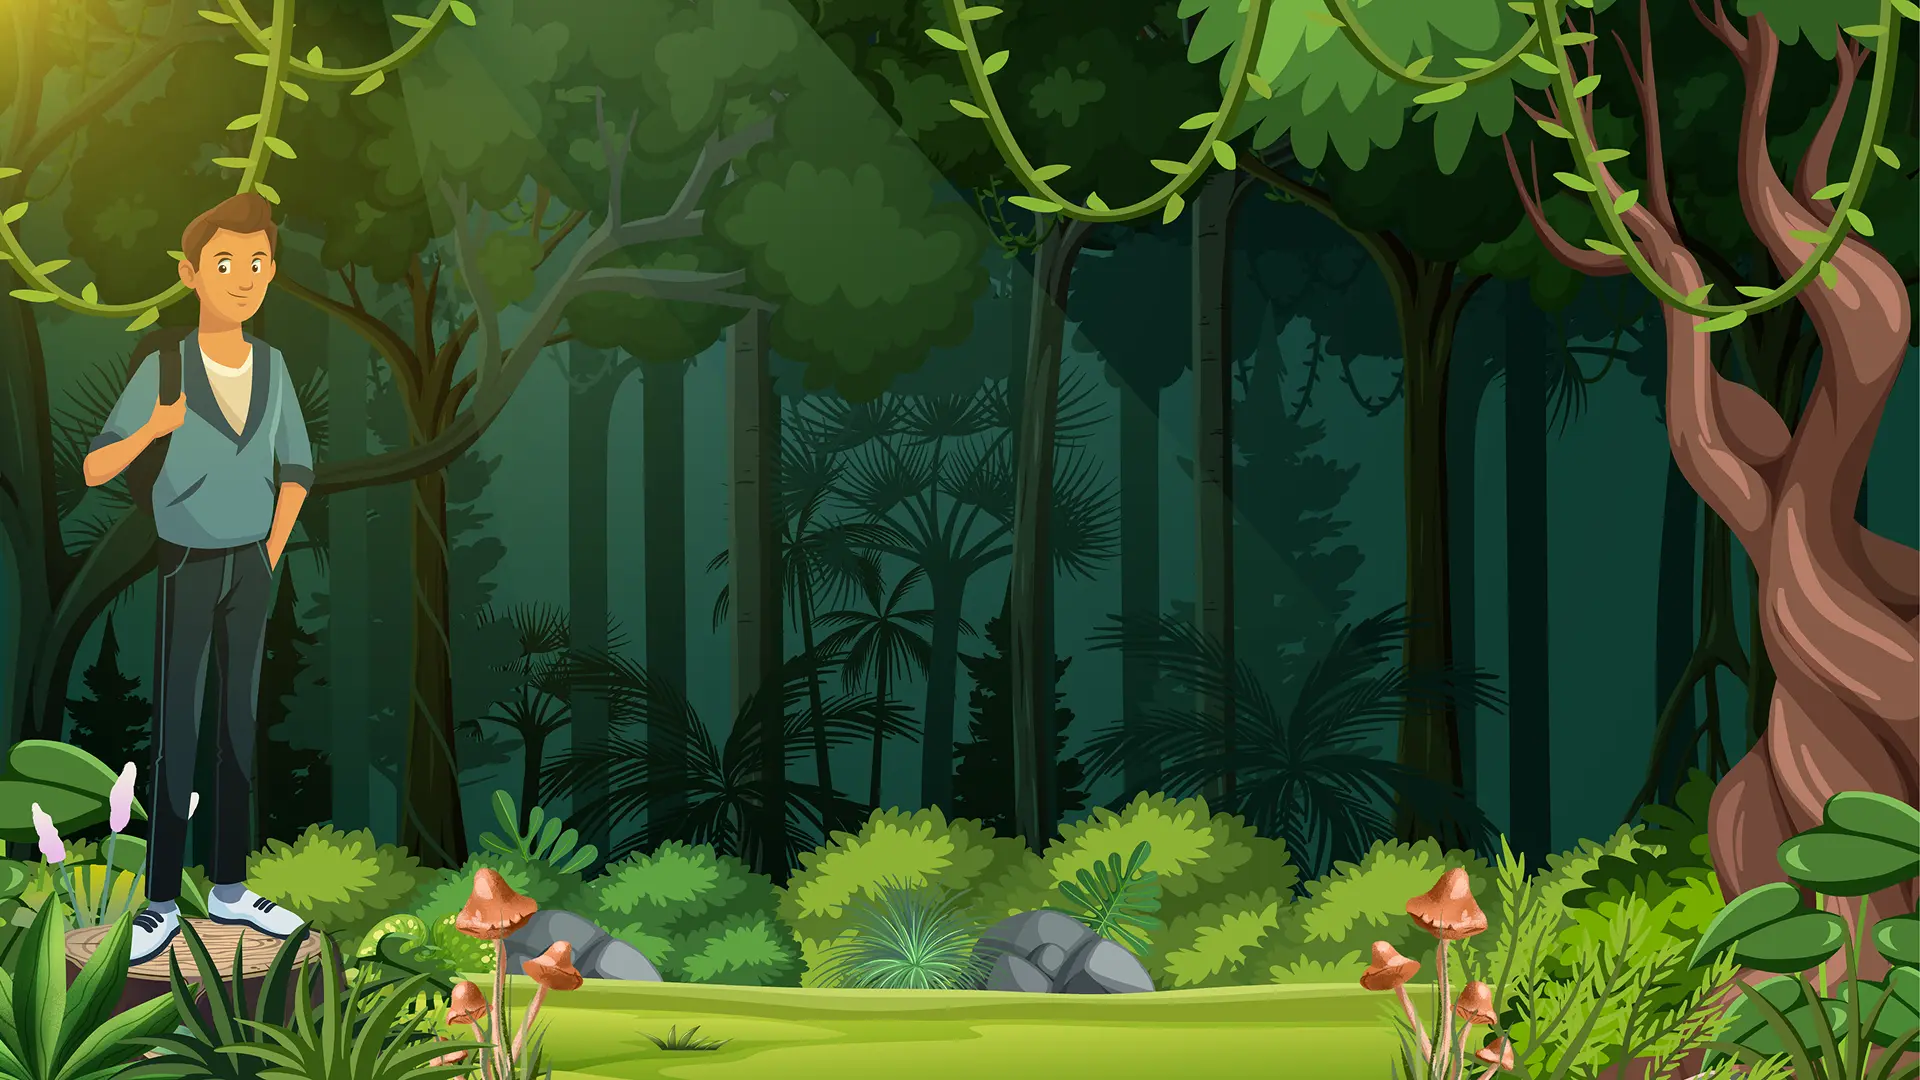
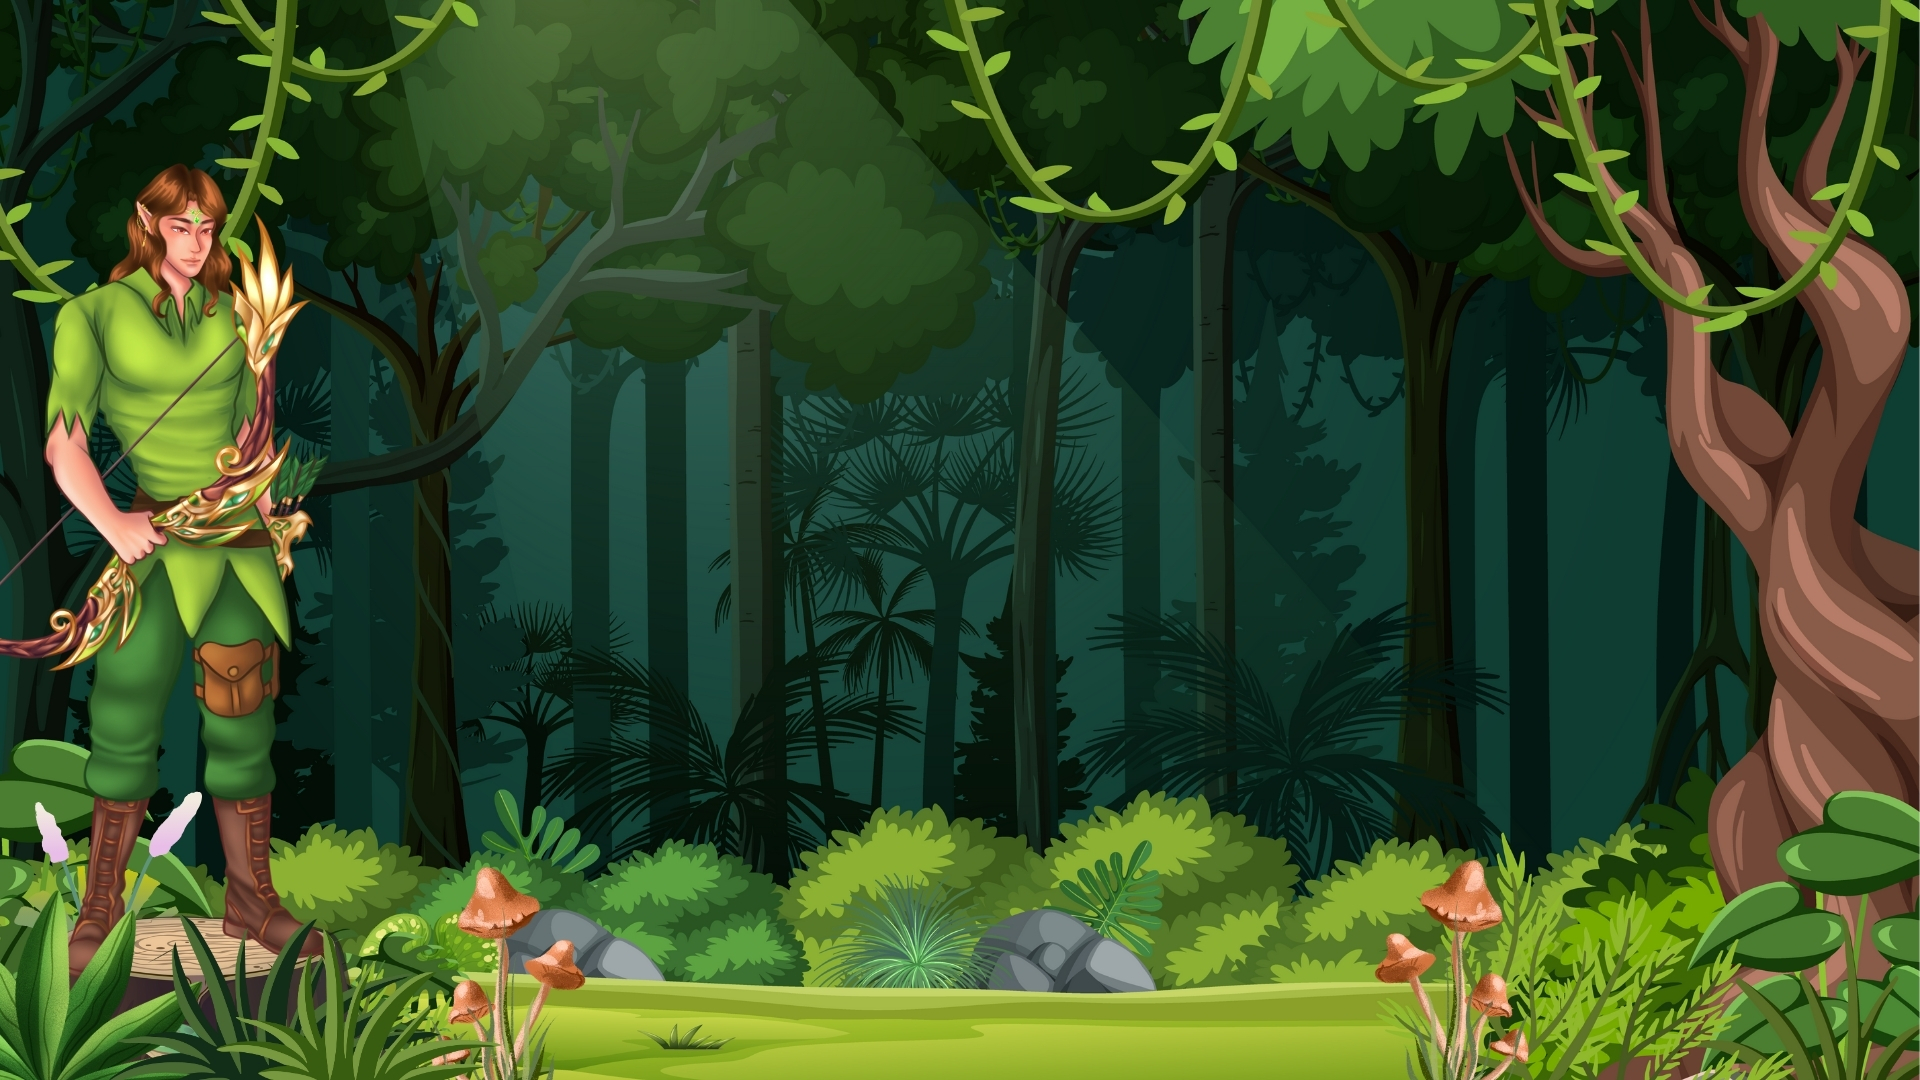
change image bg new mascot and change golput into 'tidak sah'

diff --git a/components/ChartPortal.tsx b/components/ChartPortal.tsx
@@ -288,7 +288,7 @@ export default function ChartPortal() {
               }}
             >
               <span className="details-paslon text-center font-extrabold tracking-wide text-[#594013] text-[1.4rem] mb-1">
-                Golput
+                TIDAK SAH
               </span>
               <span className="details-paslon text-center font-semibold text-[#594013] text-[0.74rem] mt-1">
                 {golputData.count} suara

diff --git a/components/Chart.tsx b/components/Chart.tsx
@@ -308,7 +308,7 @@ export default function ChartView() {
               }}
             >
               <span className="details-paslon text-center font-extrabold tracking-wide text-[#594013] text-[1.4rem] mb-1">
-                Golput
+                TIDAK SAH
               </span>
               <span className="details-paslon text-center font-semibold text-[#594013] text-[0.74rem] mt-1">
                 {golputData.count} suara
